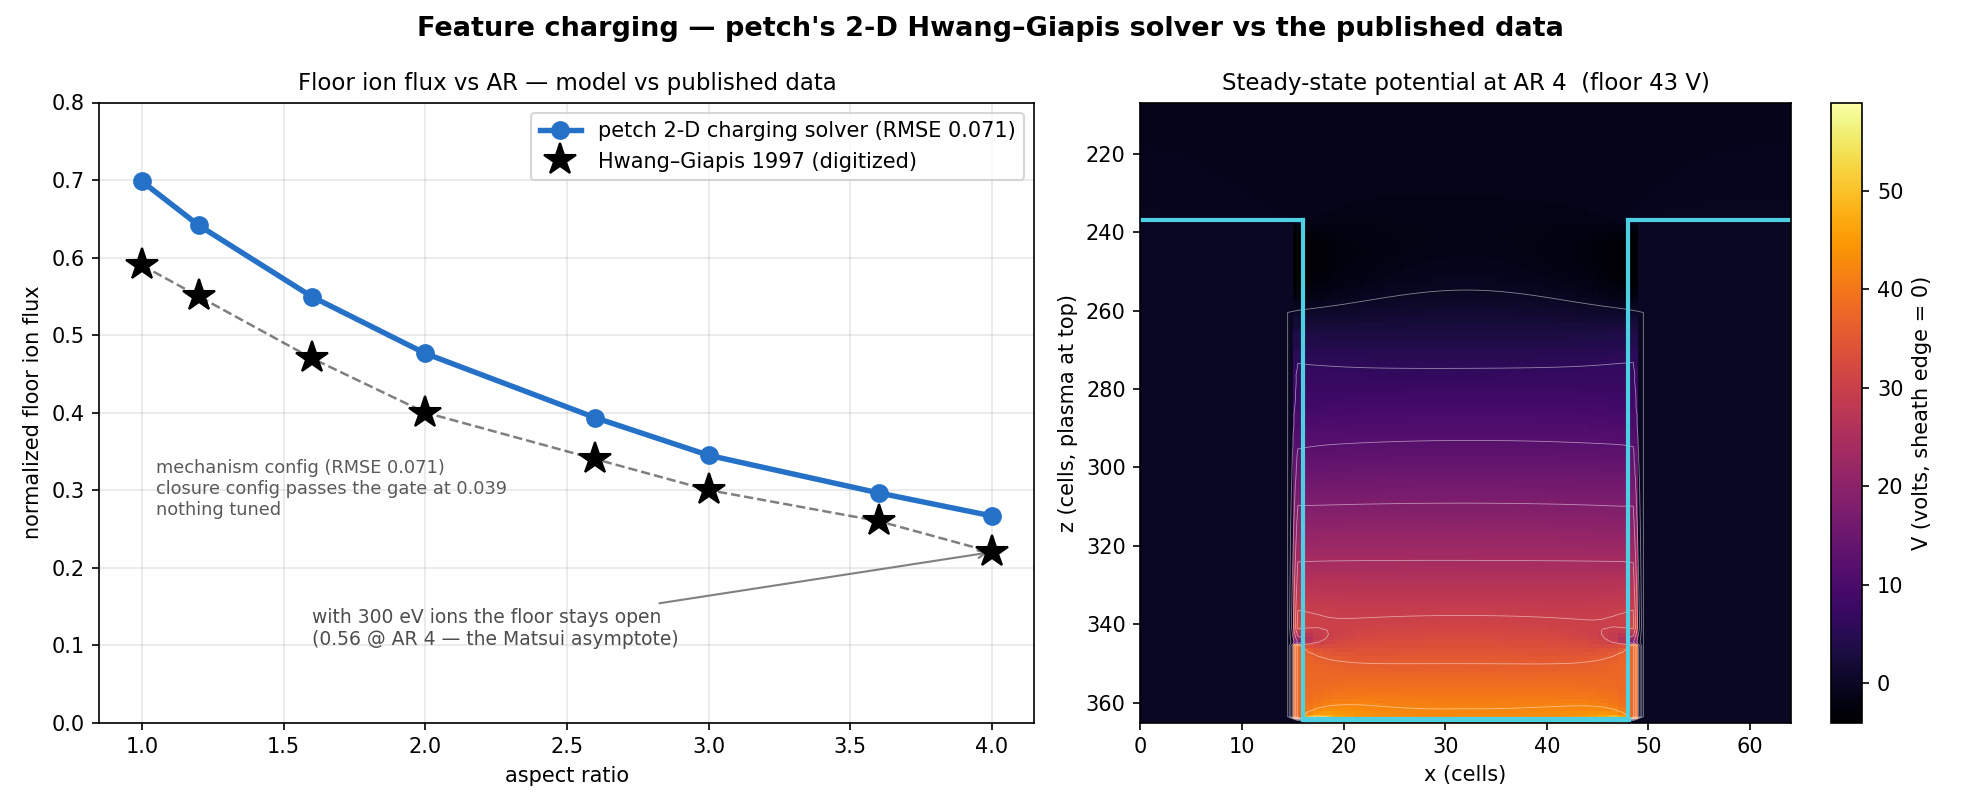
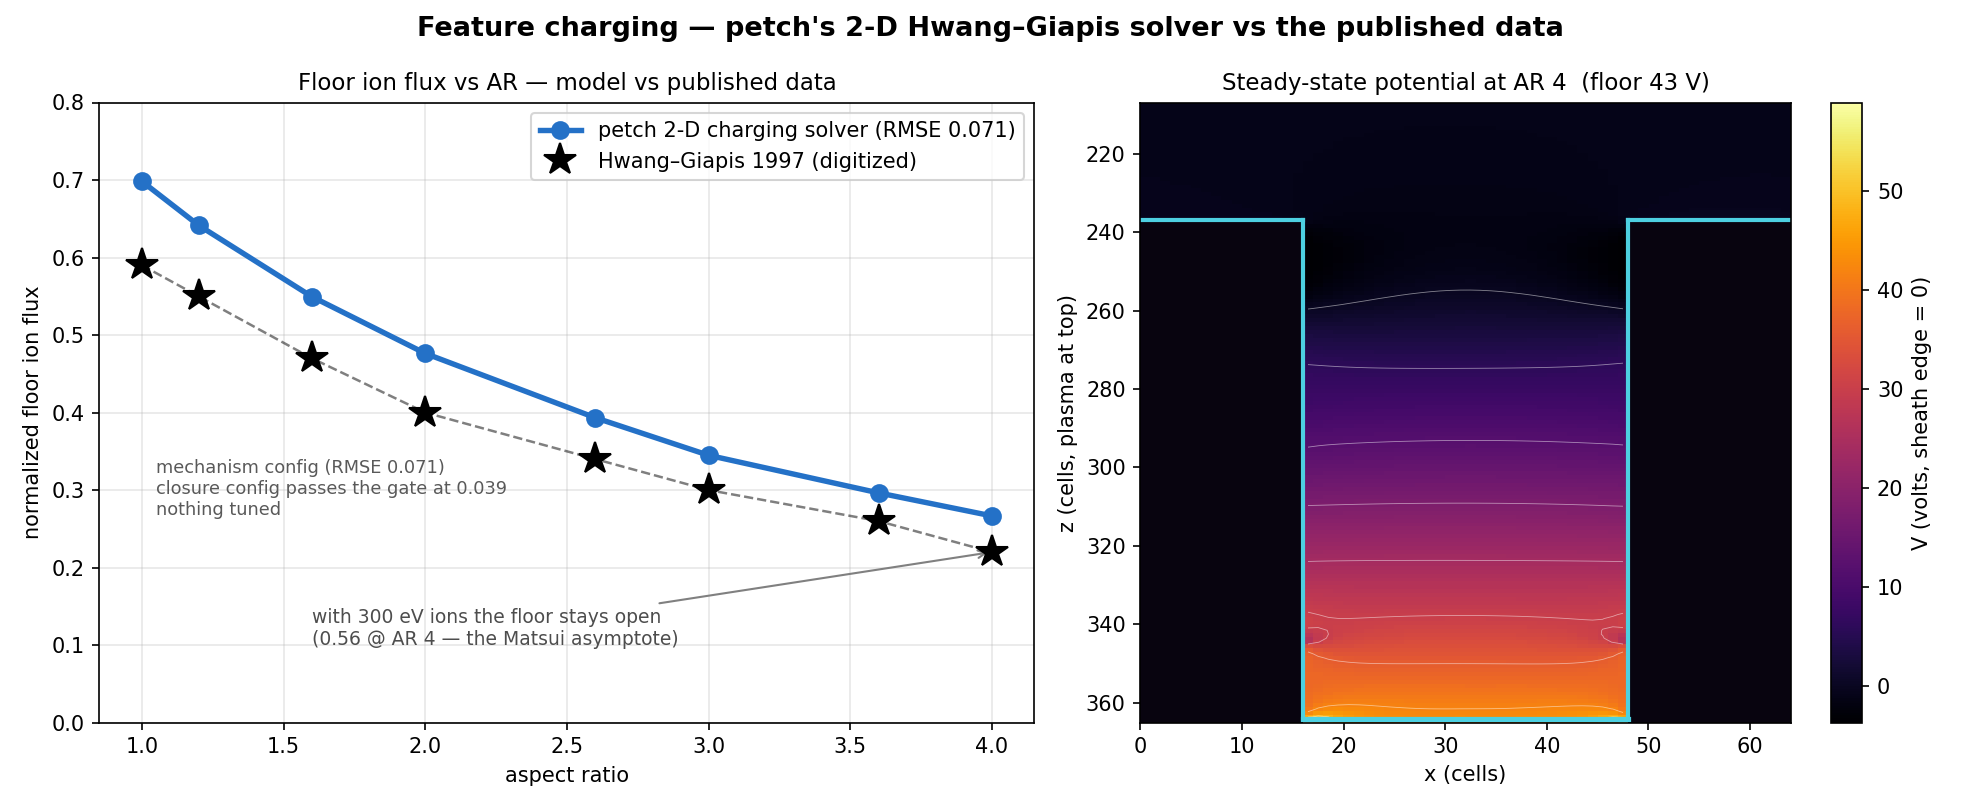
charging plot: mask solid walls (tight sides) + scorecard section on the one-pager
Potential map: mask the solid mask/sidewall cells so color fills the trench ONLY
(the boundary-condition potential in the solid cells was bleeding a cell past the
walls). The cyan outline now brackets the field exactly, mouth->floor.

what-petch-does.html: added a "scorecard" section (petch vs ViennaPS vs Kushner MC
table + the notch plot) so the comparison lives in the one-page overview, linking
the full Scorecard page.

Claude-Session: https://claude.ai/code/session_01XKkU8wWWbfgHD9UtVc6CuA

Changed region(s): [[0.801, 0.4012, 0.8318, 0.8951], [0.647, 0.4012, 0.6778, 0.8951], [0.9242, 0.5864, 0.9551, 0.6173]]

diff --git a/docs/what-petch-does.html b/docs/what-petch-does.html
@@ -59,6 +59,24 @@
   <a href="dda_vs_mc_arde.png"><img src="dda_vs_mc_arde.png" alt="Deterministic transports vs measured ViennaPS static reference" style="width:32%;min-width:260px;border:1px solid #e0ddd2;border-radius:8px"></a>
 </div>
 
+<h2>The scorecard — petch vs data vs other solvers</h2>
+<p>How the stack lands against <a href="https://github.com/ViennaTools/ViennaPS">ViennaPS</a> (the open standard everyone benchmarks) and the Kushner-group Monte-Carlo codes (HPEM&nbsp;/&nbsp;MCFPM, the research reference for charging). The full plots, captions, and an honest "where petch is behind" note are on the <a href="comparison.html">Scorecard</a> page.</p>
+<table>
+<thead><tr><th style="width:22%">Axis</th><th style="width:30%">petch</th><th style="width:26%">ViennaPS</th><th style="width:22%">Kushner MC</th></tr></thead>
+<tbody>
+<tr><td>Real-wafer deep ARDE (held-out)</td><td><strong>predicts</strong> de&nbsp;Boer AR&nbsp;40 it was never fit to (0.15–0.20 vs 0.20; RMSE 0.031–0.043)</td><td>ballistic — misses the deep tail</td><td>models it (CPU, closed)</td></tr>
+<tr><td>Surface charging</td><td><strong>yes</strong> — HG floor-flux RMSE&nbsp;0.039, nothing tuned</td><td><strong>none</strong></td><td>yes (the reference)</td></tr>
+<tr><td>Charging notching</td><td><strong>yes, gated</strong> — charging-specific, Fujiwara-monotone, HG shape r&nbsp;=&nbsp;0.92</td><td><strong>none</strong></td><td>yes (research)</td></tr>
+<tr><td>Differentiable / inverse design</td><td><strong>yes</strong> (autodiff, NVIDIA Warp)</td><td>no</td><td>no</td></tr>
+<tr><td>Hardware &amp; speed</td><td>GPU-resident ~1&nbsp;s; ~8–15× a like-for-like ViennaPS run</td><td>CPU level-set (optional GPU ray-trace)</td><td>CPU</td></tr>
+<tr><td>Open source</td><td>yes</td><td>yes</td><td>no</td></tr>
+</tbody>
+</table>
+<div style="display:flex; flex-wrap:wrap; gap:12px; justify-content:center; margin:18px 0">
+  <a href="notching_depth.png"><img src="notching_depth.png" alt="Charging-driven notch: cross-section and depth-vs-AR, charging on vs off vs the measured HG shape" style="width:64%;min-width:320px;border:1px solid #e0ddd2;border-radius:8px"></a>
+</div>
+<p class="eqn-note">The one physics channel here that neither ViennaPS nor anyone in petch's open/GPU/differentiable class carries: charging-driven notching, shown as a controlled charging-on/off A/B against the measured Hwang–Giapis shape.</p>
+
 <div class="callout warn">
 <span class="lab">Honest limits</span>
 <p><strong>One wafer dataset, one chemistry</strong> (de Boer cryo SF<sub>6</sub>/O<sub>2</sub>; the Gomez yield gate and a second dataset are next). <strong>Two calibrated constants</strong>: the Knudsen floor-loss knob (fitted on the knee; the tail is then predicted) and one absolute-rate constant (1.3&nbsp;µm/min, consistent across features to 1.1%) — everything else is cited. <strong>DDA quarantined</strong> in the mirror-wall regime. <strong>Charging</strong>: insulating floors only (v1 table at Hwang–Giapis conditions). The conductor+RF-burst build gets the mechanism quantitatively right (poly-line potential and foot flux PASS; low-AR foot energies on-curve) but the deep floor still over-charges (44 vs 33&nbsp;V at AR&nbsp;4 with the physical −Te insulator bound, down from 54; flux gate 0.071) — one root cause (RF-burst electron under-supply) that also decays deep foot energies; both solver configs stay reachable, the wired path uses the published deflected-energy table. <strong>Notch depth</strong>: the multi-material etch-stop + charging notch gate now passes for <em>shape</em> (charging-specific, Fujiwara-monotone, HG shape r&nbsp;=&nbsp;0.92) but <strong>absolute depth is uncalibrated (~3–5× shallow)</strong> and AR&nbsp;1 sits below the dx&nbsp;=&nbsp;0.25 grid floor; sub-micron (HG-scale) grids destabilize sidewalls without charging — the finer-resolution frontier. Every number above has a reproducer script and a pass/fail gate in the repo (<code>RECONCILIATION.md</code> is the full log, retractions included).</p>

diff --git a/scripts/plot_charging.py b/scripts/plot_charging.py
@@ -37,8 +37,13 @@ axA.annotate("with 300 eV ions the floor stays open\n(0.56 @ AR 4 — the Matsui
 # exact solver geometry (aligns the outline to the field; the old hardcoded pad/mouth were wrong)
 gm = r4["geom"]; pad_, W_, mouth_, nz_, nx_ = gm["pad"], gm["W"], gm["mouth"], gm["nz"], gm["nx"]
 z0 = max(0, mouth_ - 30)                                # crop the long empty mouth/vacuum above the feature
-Vc = V[:, z0:]                                         # show the feature (mouth->floor), not 237 empty cells
-im = axB.imshow(Vc.T, origin="upper", cmap="inferno", aspect="auto", extent=[0, nx_, nz_, z0])
+wall = np.zeros_like(V, bool)                           # mask the solid mask/sidewalls so color fills the
+wall[:pad_, mouth_:] = True                             # trench ONLY (the boundary-condition potential in
+wall[pad_ + W_:, mouth_:] = True                        # the solid cells otherwise bleeds past the walls)
+Vshow = np.where(wall, np.nan, V)
+Vc = Vshow[:, z0:]                                     # show the feature (mouth->floor), not 237 empty cells
+cmap = plt.cm.inferno.copy(); cmap.set_bad("#08040f")  # masked walls render as the dark ground
+im = axB.imshow(Vc.T, origin="upper", cmap=cmap, aspect="auto", extent=[0, nx_, nz_, z0])
 axB.contour(Vc.T, levels=10, colors="w", linewidths=0.4, alpha=0.5,
             extent=[0, nx_, nz_, z0], origin="upper")
 cy = "#4dd0e1"                                         # geometry outline: mask tops, trench walls, floor